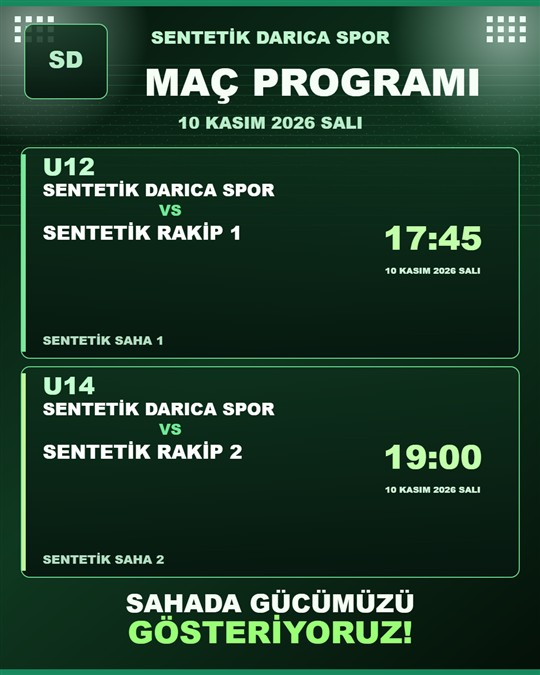
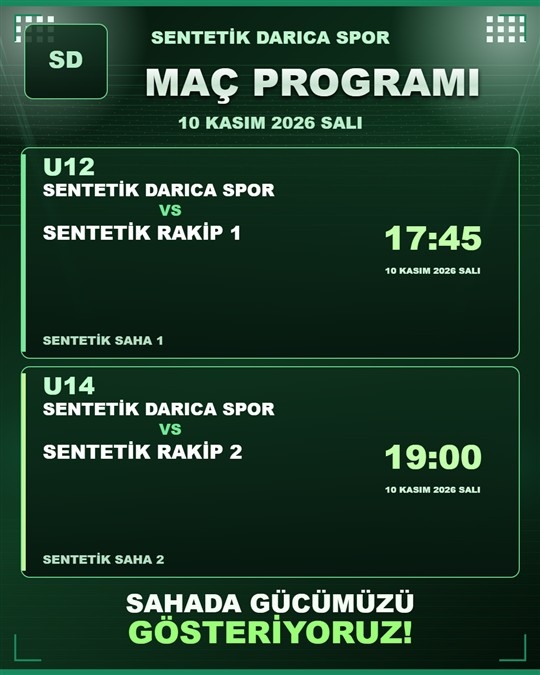
style(posters): stadium light treatment and numbered jersey list

diff --git a/src/posters/reference-designs.js b/src/posters/reference-designs.js
@@ -1,21 +1,23 @@
 /* Reference-style Canvas templates: live match data, privacy-safe public rendering. */
 const {posterCompetitionLabel}=require('src/domain/poster-document.js');
+const {enhanceStadium}=require('src/posters/stadium-effects.js');
 const W='#F5FFF5',G='#78E69C',M='#B6DCC2';
 const font=(n,w=800)=>w+' '+n+'px "Arial Black","Segoe UI",Arial,sans-serif';
 function box(c,x,y,w,h,col){c.fillStyle=col;c.fillRect(x,y,w,h)}
 function line(c,x,y,xx,yy,col='#78E69C',lw=2){c.beginPath();c.strokeStyle=col;c.lineWidth=lw;c.moveTo(x,y);c.lineTo(xx,yy);c.stroke();}
-function word(c,v,x,y,n=25,col=W,align='left',weight=800){c.save();c.font=font(n,weight);c.fillStyle=col;c.textAlign=align;c.textBaseline='middle';c.fillText(String(v??''),x,y);c.restore()}
+function word(c,v,x,y,n=25,col=W,align='left',weight=800){c.save();c.font=font(n,weight);c.fillStyle=col;c.textAlign=align;c.textBaseline='middle';if(n>=55&&col===W){const shine=c.createLinearGradient(0,y-n*.55,0,y+n*.55);shine.addColorStop(0,'#FFFFFF');shine.addColorStop(.44,'#EDF8F0');shine.addColorStop(.5,'#BBCDC2');shine.addColorStop(1,'#F8FFF7');c.fillStyle=shine;c.shadowColor='#000D05';c.shadowBlur=9;c.shadowOffsetY=5;}c.fillText(String(v??''),x,y);c.restore()}
 function fit(c,v,x,y,max,prefer=27,min=14,col=W,align='left',weight=800){v=String(v??'');let n=prefer;c.font=font(n,weight);while(n>min&&c.measureText(v).width>max){n--;c.font=font(n,weight)}const ok=c.measureText(v).width<=max;word(c,v,x,y,n,col,align,weight);return ok;}
 function panel(c,x,y,w,h,col='#0A2315'){c.save();c.shadowColor='#020C05';c.shadowBlur=17;c.fillStyle=col;c.beginPath();c.roundRect(x,y,w,h,13);c.fill();c.shadowBlur=0;c.strokeStyle='#3C8656';c.lineWidth=2;c.stroke();c.restore();}
 function crest(c,img,x,y,size,club){if(img){const s=Math.min(size/img.width,size/img.height);c.drawImage(img,x-img.width*s/2,y-img.height*s/2,img.width*s,img.height*s);return;}panel(c,x-size*.44,y-size*.43,size*.88,size*.86);word(c,String(club).split(' ').slice(0,2).map(s=>s[0]||'').join(''),x,y,size*.24,W,'center',900)}
 function flood(c,x,y){const g=c.createRadialGradient(x,y,3,x,y,190);g.addColorStop(0,'#B4FDD077');g.addColorStop(1,'#B4FDD000');box(c,x-190,y-190,380,380,g);for(let j=0;j<3;j++)for(let i=0;i<5;i++)box(c,x+(i-2)*23-7,y+j*22-7,14,14,'#EDFFF4');}
 function stadium(c,w,h,accent){const g=c.createLinearGradient(0,0,0,h);g.addColorStop(0,'#06110C');g.addColorStop(.52,'#11321C');g.addColorStop(1,'#041108');box(c,0,0,w,h,g);for(let i=0;i<13;i++)line(c,0,145+i*27,w,145+i*27,'#CFFFE40C',2);for(let i=0;i<1150;i++){c.globalAlpha=.14;box(c,(i*77)%w,185+(i*47)%230,2,2,i%3?'#94C99A':'#FFF');}c.globalAlpha=1;flood(c,86,62);flood(c,w-86,62);const v=c.createLinearGradient(0,h*.7,0,h);v.addColorStop(0,'#010F0700');v.addColorStop(1,'#010C07DD');box(c,0,h*.7,w,h*.3,v);box(c,0,0,w,10,accent);box(c,0,h-10,w,10,accent);}
+function jersey(c,x,y,v){c.save();c.translate(x,y);c.beginPath();c.moveTo(-8,-12);c.lineTo(-3,-15);c.lineTo(3,-15);c.lineTo(8,-12);c.lineTo(16,-6);c.lineTo(12,1);c.lineTo(9,-1);c.lineTo(9,13);c.lineTo(-9,13);c.lineTo(-9,-1);c.lineTo(-12,1);c.lineTo(-16,-6);c.closePath();c.fillStyle='#F1FFF3';c.fill();c.lineWidth=1.2;c.strokeStyle='#ACDAB9';c.stroke();if(v)word(c,v,0,3,10,'#11452B','center',900);c.restore();}
 function badge(c,x,y,v,r=22){c.beginPath();c.arc(x,y,r,0,Math.PI*2);c.fillStyle='#ECFFEF';c.fill();c.lineWidth=2;c.strokeStyle=G;c.stroke();word(c,v||'•',x,y,r*.82,'#112A18','center',900);}
 function top(c,doc,logo){crest(c,logo,540,112,145,doc.clubName);fit(c,doc.clubName,540,215,970,39,20,W,'center',900);word(c,'MAÇ KADROSU',540,286,64,W,'center',900);fit(c,posterCompetitionLabel(doc.match),540,346,945,27,17,G,'center');panel(c,48,373,984,96);fit(c,doc.clubName,540,396,940,25,17,M,'center');fit(c,'VS  '+String(doc.match.opponent||'').toLocaleUpperCase('tr-TR'),540,436,940,34,18,W,'center');fit(c,(doc.match.dateLabel||'')+'  •  '+(doc.match.kickoffTime||'')+'  •  '+(doc.match.venue||''),540,507,975,23,17,M,'center');}
 function notes(c,doc,y,height){const x=doc.instructions||{},items=[['TOPLANMA',[x.meetingTime,x.meetingPlace].filter(Boolean).join(' · ')],['MAÇ YEMEĞİ',x.mealDeadline],['MENÜ',x.mealMenu],['KIYAFET',x.kitNotes],['SIVI KONTROLÜ',x.hydrationNotes],['ANTRENÖR NOTU',x.coachNotes]].filter(p=>p[1]);if(doc.overrides?.showOptionalSections===false||!items.length)return [];const warns=[];panel(c,48,y,984,height);for(let i=0;i<items.length;i++){const xx=i%2?556:70,compact=height<160,yy=y+(compact?18:28)+Math.floor(i/2)*(compact?35:Math.min(57,(height-15)/3));word(c,items[i][0],xx,yy,compact?12:16,G);if(!fit(c,items[i][1],xx,yy+(compact?16:24),445,compact?14:18,11,W))warns.push('Talimat alanı taşması: '+items[i][0]);}return warns;}
-function roster(c,doc,logo){top(c,doc,logo);const players=doc.players||[],left=Math.min(players.length,doc.rosterSplit?.starters??(players.length>11?11:players.length)),right=players.length-left,warns=[];panel(c,48,557,481,500);panel(c,551,557,481,500);word(c,'İLK '+left,76,590,29,G);word(c,'YEDEKLER '+right,574,590,29,G);line(c,76,615,507,615);line(c,574,615,1009,615);if(Math.max(left,right)>15)warns.push('Kadro sayısı poster alanını aşıyor.');for(let i=0;i<players.length;i++){const side=i<left?0:1,row=side?i-left:i,x=side?577:77,y=639+row*27.3;if(row>=15)continue;badge(c,x+15,y,players[i].number||'–',13);if(!fit(c,players[i].name,x+51,y,388,23,14,W))warns.push('Oyuncu adı taşıyor: '+players[i].name);}warns.push(...notes(c,doc,1077,209));return warns;}
+function roster(c,doc,logo){top(c,doc,logo);const players=doc.players||[],left=Math.min(players.length,doc.rosterSplit?.starters??(players.length>11?11:players.length)),right=players.length-left,warns=[];panel(c,48,557,481,500);panel(c,551,557,481,500);word(c,'İLK '+left,76,590,29,G);word(c,'YEDEKLER '+right,574,590,29,G);line(c,76,615,507,615);line(c,574,615,1009,615);if(Math.max(left,right)>15)warns.push('Kadro sayısı poster alanını aşıyor.');for(let i=0;i<players.length;i++){const side=i<left?0:1,row=side?i-left:i,x=side?577:77,y=639+row*27.3;if(row>=15)continue;line(c,x,y+13,x+436,y+13,'#D4FDE611',1);jersey(c,x+15,y,players[i].number||'');if(!fit(c,players[i].name,x+51,y,388,23,14,W))warns.push('Oyuncu adı taşıyor: '+players[i].name);}warns.push(...notes(c,doc,1077,209));return warns;}
 function field(c){const x=57,y=234,w=966,h=704;panel(c,x,y,w,h,'#0D4425');c.save();c.beginPath();c.roundRect(x+9,y+9,w-18,h-18,8);c.clip();for(let i=0;i<9;i++)box(c,x+9,y+9+i*77,w-18,77,i%2?'#0C4B26':'#0D3F24');c.restore();c.strokeStyle='#CEFFDC99';c.lineWidth=3;c.strokeRect(x+24,y+23,w-48,h-46);line(c,x+24,y+h/2,x+w-24,y+h/2,'#CEFFDC99');c.beginPath();c.arc(x+w/2,y+h/2,82,0,Math.PI*2);c.stroke();c.strokeRect(x+w*.33,y+22,w*.34,94);c.strokeRect(x+w*.33,y+h-116,w*.34,94);}
 function pitch(c,doc,logo){const warns=[];crest(c,logo,154,100,165,doc.clubName);fit(c,doc.clubName,296,80,740,34,17,G);word(c,'SAHA DİZİLİŞİ',296,129,58,W);fit(c,posterCompetitionLabel(doc.match)+' • '+String(doc.match.opponent||'').toLocaleUpperCase('tr-TR'),296,183,740,22,15,M);fit(c,(doc.match.dateLabel||'')+' • '+(doc.match.kickoffTime||'')+' • '+(doc.match.venue||''),296,212,740,20,15,W);field(c);const positions=(doc.lineupPositions||[]).filter(p=>p.name);if(!positions.length)warns.push('Saha dizilişi henüz tamamlanmamış.');for(const p of positions){const xx=94+(Number(p.x)||50)*8.9,yy=289+(Number(p.y)||50)*5.85;badge(c,xx,yy,p.number||'·');panel(c,xx-94,yy+29,188,33,'#071C0F');if(!fit(c,p.name,xx,yy+46,180,18,12,W,'center'))warns.push('Saha oyuncusu adı taşıyor: '+p.name);word(c,p.label,xx,yy+86,14,G,'center');}const chosen=new Set(positions.map(p=>p.playerId)),bench=(doc.players||[]).filter(p=>!chosen.has(p.playerId));panel(c,48,964,984,212);word(c,'YEDEK KULÜBESİ  ·  '+bench.length+' OYUNCU',70,992,27,G);if(bench.length>16)warns.push('Yedek sayısı 16 üstünde.');for(let i=0;i<Math.min(16,bench.length);i++){const x=i<8?74:565,row=i%8;if(!fit(c,(bench[i].number||'–')+'  '+bench[i].name,x,1031+row*19,449,17,12,W))warns.push('Yedek ismi taşıyor: '+bench[i].name);}warns.push(...notes(c,doc,1191,120));return warns;}
 function publicPoster(c,doc,logo){const warns=[];crest(c,logo,540,227,245,doc.clubName);fit(c,doc.clubName,540,415,970,45,22,W,'center');word(c,'MAÇ GÜNÜ',540,586,104,W,'center',900);fit(c,posterCompetitionLabel(doc.match),540,669,900,32,18,G,'center');panel(c,45,729,990,283);fit(c,doc.clubName,540,791,930,55,23,W,'center');word(c,'VS',540,856,67,G,'center');if(!fit(c,String(doc.match.opponent||'').toLocaleUpperCase('tr-TR'),540,932,930,54,20,W,'center'))warns.push('Rakip adı taşması.');panel(c,48,1037,984,206);fit(c,doc.match.dateLabel,540,1080,930,33,17,M,'center');word(c,doc.match.kickoffTime,540,1149,72,W,'center',900);if(!fit(c,doc.match.venue,540,1215,930,29,17,W,'center'))warns.push('Stad adı taşması.');return warns;}
-function renderReferencePoster(c,doc,{logo=null,background=null}={}){const w=c.canvas.width,h=c.canvas.height,accent=doc.overrides?.accent||'#4EBF75';stadium(c,w,h,accent);if(background){c.save();c.globalAlpha=.10;c.drawImage(background,0,0,w,h);c.restore();}c.save();if(h>1500)c.translate(0,(h-1350)/2);const warnings=doc.kind==='public'?publicPoster(c,doc,logo):doc.templateId==='reference-pitch'?pitch(c,doc,logo):roster(c,doc,logo);c.restore();word(c,'AİLE HER ŞEYDİR',w/2,h-22,20,W,'center',900);return {fits:!warnings.length,warnings};}
+function renderReferencePoster(c,doc,{logo=null,background=null}={}){const w=c.canvas.width,h=c.canvas.height,accent=doc.overrides?.accent||'#4EBF75';stadium(c,w,h,accent);enhanceStadium(c,w,h,accent);if(background){c.save();c.globalAlpha=.10;c.drawImage(background,0,0,w,h);c.restore();}c.save();if(h>1500)c.translate(0,(h-1350)/2);const warnings=doc.kind==='public'?publicPoster(c,doc,logo):doc.templateId==='reference-pitch'?pitch(c,doc,logo):roster(c,doc,logo);c.restore();word(c,'AİLE HER ŞEYDİR',w/2,h-22,20,W,'center',900);return {fits:!warnings.length,warnings};}
 Object.assign(exports,{renderReferencePoster});

diff --git a/src/posters/weekly-reference.js b/src/posters/weekly-reference.js
@@ -1,6 +1,7 @@
 /* Premium public fixture art based on supplied programme reference. No private data access. */
+const {enhanceStadium}=require('src/posters/stadium-effects.js');
 const FONT=(size,weight=850)=>weight+' '+size+'px "Arial Black","Segoe UI",Arial,sans-serif';
-function text(c,v,x,y,size,color='#F3FFF3',align='left',weight=850){c.save();c.font=FONT(size,weight);c.textAlign=align;c.textBaseline='middle';c.fillStyle=color;c.fillText(String(v??''),x,y);c.restore()}
+function text(c,v,x,y,size,color='#F3FFF3',align='left',weight=850){c.save();c.font=FONT(size,weight);c.textAlign=align;c.textBaseline='middle';c.fillStyle=color;if(size>=65&&color==='#F6FFF6'){const gradient=c.createLinearGradient(0,y-size/2,0,y+size/2);gradient.addColorStop(0,'#FFFFFF');gradient.addColorStop(.5,'#C4E0CD');gradient.addColorStop(1,'#FAFFF9');c.fillStyle=gradient;c.shadowColor='#000';c.shadowBlur=10;c.shadowOffsetY=4;}c.fillText(String(v??''),x,y);c.restore()}
 function fit(c,v,x,y,max,size,min=13,color='#F6FFF4',align='left'){v=String(v??'');let s=size;c.font=FONT(s);while(s>min&&c.measureText(v).width>max){s--;c.font=FONT(s)}const good=c.measureText(v).width<=max;text(c,v,x,y,s,color,align);return good;}
 function rect(c,x,y,w,h,col){c.fillStyle=col;c.fillRect(x,y,w,h)}
 function panel(c,x,y,w,h){const bg=c.createLinearGradient(x,y,x,y+h);bg.addColorStop(0,'#0D2F1BCC');bg.addColorStop(1,'#06170FEF');c.fillStyle=bg;c.strokeStyle='#69DB91';c.lineWidth=2;c.beginPath();c.roundRect(x,y,w,h,17);c.fill();c.stroke();}
@@ -10,7 +11,7 @@ function gradBg(c,w,h,accent){const g=c.createLinearGradient(0,0,w,h);g.addColor
  for(let i=0;i<850;i++){c.globalAlpha=.13;rect(c,(i*79)%w,190+(i*67)%190,2,2,i%3?'#80C69C':'#F9FFF7');}c.globalAlpha=1;
  rect(c,0,0,w,12,accent);rect(c,0,h-12,w,12,accent);}
 function turkishDate(s){const d=new Date(String(s)+'T12:00:00Z');return d.toLocaleDateString('tr-TR',{day:'numeric',month:'long',year:'numeric',weekday:'long',timeZone:'UTC'}).toLocaleUpperCase('tr-TR');}
-function renderPremiumWeeklyBoard(plan,canvas,{logo=null,watermark=null}={}){if(!plan.ok)throw Error(plan.issues.join(' '));const w=1080,h=plan.size==='story'?1920:1350;canvas.width=w;canvas.height=h;const c=canvas.getContext('2d');if(!c)throw Error('Canvas kullanılamıyor.');const warnings=[],accent=plan.clubAccent||'#59CF83';gradBg(c,w,h,accent);
+function renderPremiumWeeklyBoard(plan,canvas,{logo=null,watermark=null}={}){if(!plan.ok)throw Error(plan.issues.join(' '));const w=1080,h=plan.size==='story'?1920:1350;canvas.width=w;canvas.height=h;const c=canvas.getContext('2d');if(!c)throw Error('Canvas kullanılamıyor.');const warnings=[],accent=plan.clubAccent||'#59CF83';gradBg(c,w,h,accent);enhanceStadium(c,w,h,accent);
  if(logo){let scale=Math.min(160/logo.width,164/logo.height);c.drawImage(logo,52,34,logo.width*scale,logo.height*scale);}
  else{panel(c,49,48,165,149);fit(c,plan.clubName.split(' ').slice(0,2).map(p=>p[0]||'').join(''),131,122,145,46,22,'#B7ECC8','center');}
  fit(c,plan.clubName,540,77,590,35,18,'#BEF5CF','center');fit(c,'MAÇ PROGRAMI',625,170,745,76,58,'#F6FFF6','center');fit(c,turkishDate(plan.items[0].date),540,248,915,33,17,'#B7ECC8','center');

diff --git a/src/posters/stadium-effects.js b/src/posters/stadium-effects.js
@@ -1,0 +1,53 @@
+/* Pure Canvas stadium treatments. No text, players, fixtures or external assets. */
+function enhanceStadium(ctx,width,height,chosenAccent='#62D78D') {
+ const accent=/^#[0-9a-fA-F]{6}$/.test(chosenAccent)?chosenAccent:'#62D78D';
+ ctx.save();
+ // High-level sports broadcast artwork: diagonally raked luminous LED strips.
+ for (const side of [-1,1]) {
+  const x=side<0?0:width;
+  for(let i=0;i<4;i++){
+   const startY=70+i*23;
+   const edge=side<0?width*.34:width*.66;
+   const fade=ctx.createLinearGradient(x,startY,edge,height*.58);
+   fade.addColorStop(0,i%2?accent+'18':'#C8FFE41C');
+   fade.addColorStop(.55,accent+'0A');
+   fade.addColorStop(1,'#06130A00');
+   ctx.fillStyle=fade;
+   ctx.beginPath();
+   ctx.moveTo(x,startY);ctx.lineTo(x,startY+15);
+   ctx.lineTo(edge+side*115,height*.59);
+   ctx.lineTo(edge+side*175,height*.57);
+   ctx.closePath();ctx.fill();
+  }
+ }
+ // Subtle concentric terraces, textured crowd behind all readable content.
+ ctx.lineWidth=2;
+ for(let j=0;j<9;j++){
+  const yy=height*.12+j*22;
+  ctx.strokeStyle=j%3===0?accent+'19':'#D7FFE90A';
+  ctx.beginPath();ctx.moveTo(0,yy);
+  ctx.quadraticCurveTo(width/2,yy+35,width,yy);
+  ctx.stroke();
+ }
+ // Pitch-side neon underlight and angled corner flares.
+ for(const [x,y,angle] of [[42,height*.67,-.24],[width-42,height*.69,.24]]) {
+  ctx.save();ctx.translate(x,y);ctx.rotate(angle);
+  const gg=ctx.createRadialGradient(0,0,0,0,0,260);
+  gg.addColorStop(0,accent+'2D');gg.addColorStop(.38,accent+'0E');gg.addColorStop(1,accent+'00');
+  ctx.fillStyle=gg;ctx.fillRect(-260,-260,520,520);ctx.restore();
+ }
+ // Grass striations, confined to the peripheral lower background.
+ for(let row=0;row<55;row++){
+  const y=height*.77+row*height*.004;
+  ctx.strokeStyle=row%4===0?accent+'16':'#9BDBAC08';
+  ctx.lineWidth=row%4===0?1.5:.8;
+  ctx.beginPath();ctx.moveTo(0,y);ctx.lineTo(width,y);ctx.stroke();
+ }
+ // Broadcast corners that stay outside all text boxes.
+ ctx.lineWidth=4;ctx.strokeStyle=accent;
+ for(const [x,y,sx,sy] of [[30,30,1,1],[width-30,30,-1,1],[30,height-30,1,-1],[width-30,height-30,-1,-1]]) {
+  ctx.beginPath();ctx.moveTo(x+sx*52,y);ctx.lineTo(x,y);ctx.lineTo(x,y+sy*52);ctx.stroke();
+ }
+ ctx.restore();
+}
+Object.assign(exports,{enhanceStadium});
